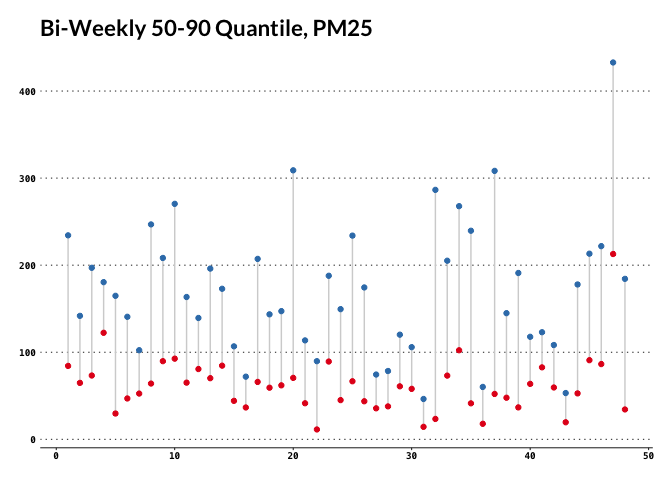
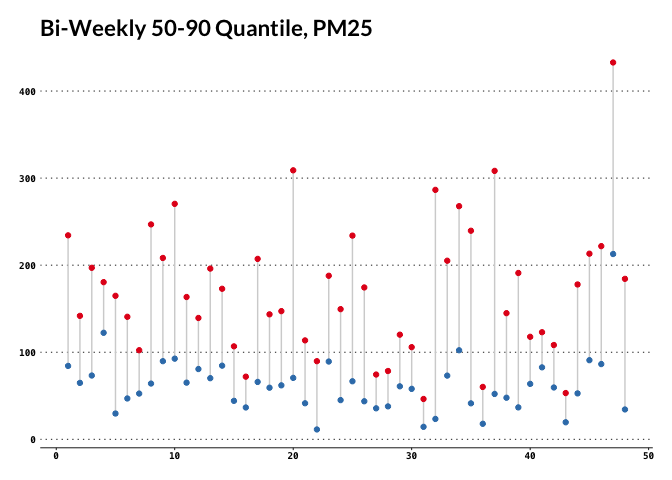
Improve presentation

diff --git a/README.md b/README.md
@@ -182,9 +182,7 @@ bi_week_range %>%
     ggplot(aes(week, val, col = var, group = week)) +
     geom_line(col = "lightgray") +
     geom_point() + 
-    scale_color_brewer(guide = "none",
-                       direction = -1,
-                       palette = "Set1") + 
+    scale_color_brewer(guide = "none", palette = "Set1") + 
     labs(title = "Bi-Weekly 50-90 Quantile, PM25")
 ```
 
@@ -210,28 +208,23 @@ monthly_wide <- map(1:12, ~ map2_dbl(.x, yr, ~ get_core(..2, ..1))) %>%
     map(~ ts(., start = min(yr), end = max(yr), frequency = 1)) %>% 
     set_names(month.abb) %>% 
     do.call(cbind, .)
-monthly_wide
+
+# stil a time series
+monthly_wide[, c('Dec', 'Jan', 'Feb')]
 ```
 
     ## Time Series:
     ## Start = 2013 
     ## End = 2017 
     ## Frequency = 1 
-    ##            Jan       Feb       Mar      Apr      May       Jun      Jul
-    ## 2013        NA        NA 104.71906 62.22600 81.53193 102.14312 67.68538
-    ## 2014  97.93781 153.70431  95.30729 90.69111 62.04569  54.43935 89.91680
-    ## 2015  96.29138  93.23196  86.29003 71.04736 55.62051  60.75577 60.93247
-    ## 2016  66.87994  42.83319  91.75813 67.05101 53.59896  58.51604 68.23572
-    ## 2017 113.95358  68.67326        NA       NA       NA        NA       NA
-    ##           Aug      Sep       Oct       Nov       Dec
-    ## 2013 60.87607 76.25218  91.69247  73.83220  78.33322
-    ## 2014 63.00928 65.81218 119.55397  87.11115  59.51845
-    ## 2015 44.47829 48.81169  72.10920 114.82227 149.55659
-    ## 2016 45.87336 53.42565  84.10155  97.49787 128.72614
-    ## 2017       NA       NA        NA        NA        NA
+    ##            Dec       Jan       Feb
+    ## 2013  78.33322        NA        NA
+    ## 2014  59.51845  97.93781 153.70431
+    ## 2015 149.55659  96.29138  93.23196
+    ## 2016 128.72614  66.87994  42.83319
+    ## 2017        NA 113.95358  68.67326
 
 ``` r
-# stil a time series
 monthly_wide %>% 
     autoplot(facets = FALSE) +
     scale_color_brewer(palette = "Paired")
@@ -299,7 +292,7 @@ ep    <- endpoints(wspm25, "months")
 wspmu <- wspm25$windspeed %>% 
     period.apply(INDEX = ep, FUN = mean) %>% 
     na.locf()
-plot(wspmu)
+plot(wspmu, main = "Windspeed")
 ```
 
 ![](README_files/figure-gfm/unnamed-chunk-11-1.png)<!-- -->
@@ -314,7 +307,7 @@ wspmu_smoothed  <- rollapply(wspmu, width = 3, FUN = mean)
 # wspmu_smoothed <- forecast::ma(wspmu, order = 3)
 
 # detect seasonality using autocorrelation
-plot(wspmu_smoothed)
+plot(wspmu_smoothed, main = "Windspeed (Smoothed)")
 ```
 
 ![](README_files/figure-gfm/unnamed-chunk-12-1.png)<!-- -->
@@ -324,7 +317,8 @@ Autocorrelation `stats::acf` gives us a clearer understanding. When data
 have a trend, the autocorrelations for small lags tend to be large and
 positive. When data are seasonal, the autocorrelations will be larger
 for the seasonal lags (at multiples of the seasonal frequency) than for
-other lags.
+other lags. What if a series embeds both trend and seasonality? How do
+the autocorrelations look like?
 
 The blue lines incidicates ±2/√T, where T is the length of series,
 representing white noise.
